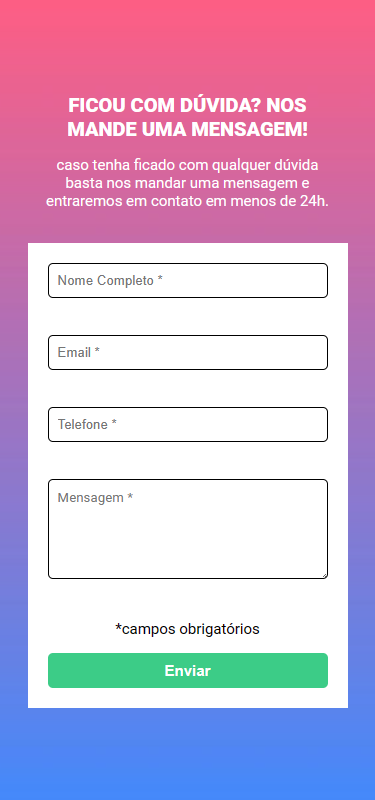
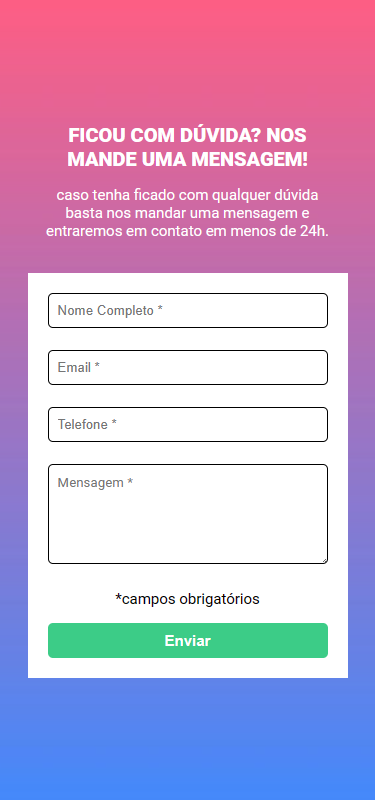
imagem mobile alterada

diff --git a/src/css/responsive.css b/src/css/responsive.css
@@ -14,9 +14,6 @@
         width: 320px;
         max-width: 400px;
     }
-    .formulario .input{
-        margin-bottom: 15px;
-    }
     .formulario input{
         padding: 9px;
         width: 280px;
